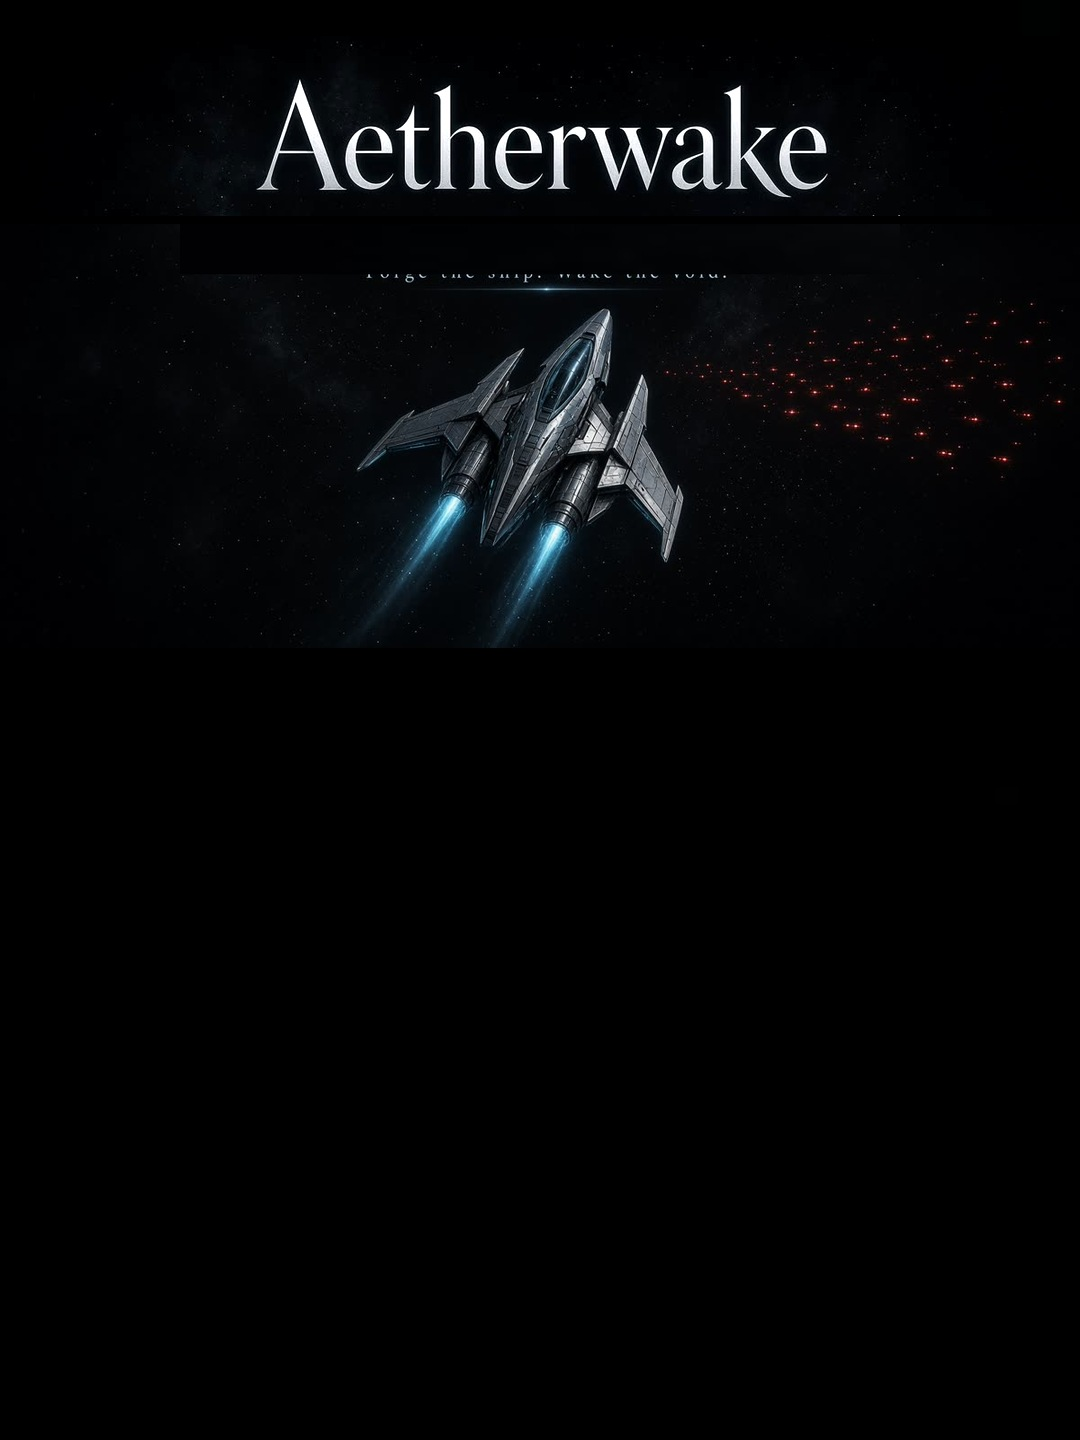
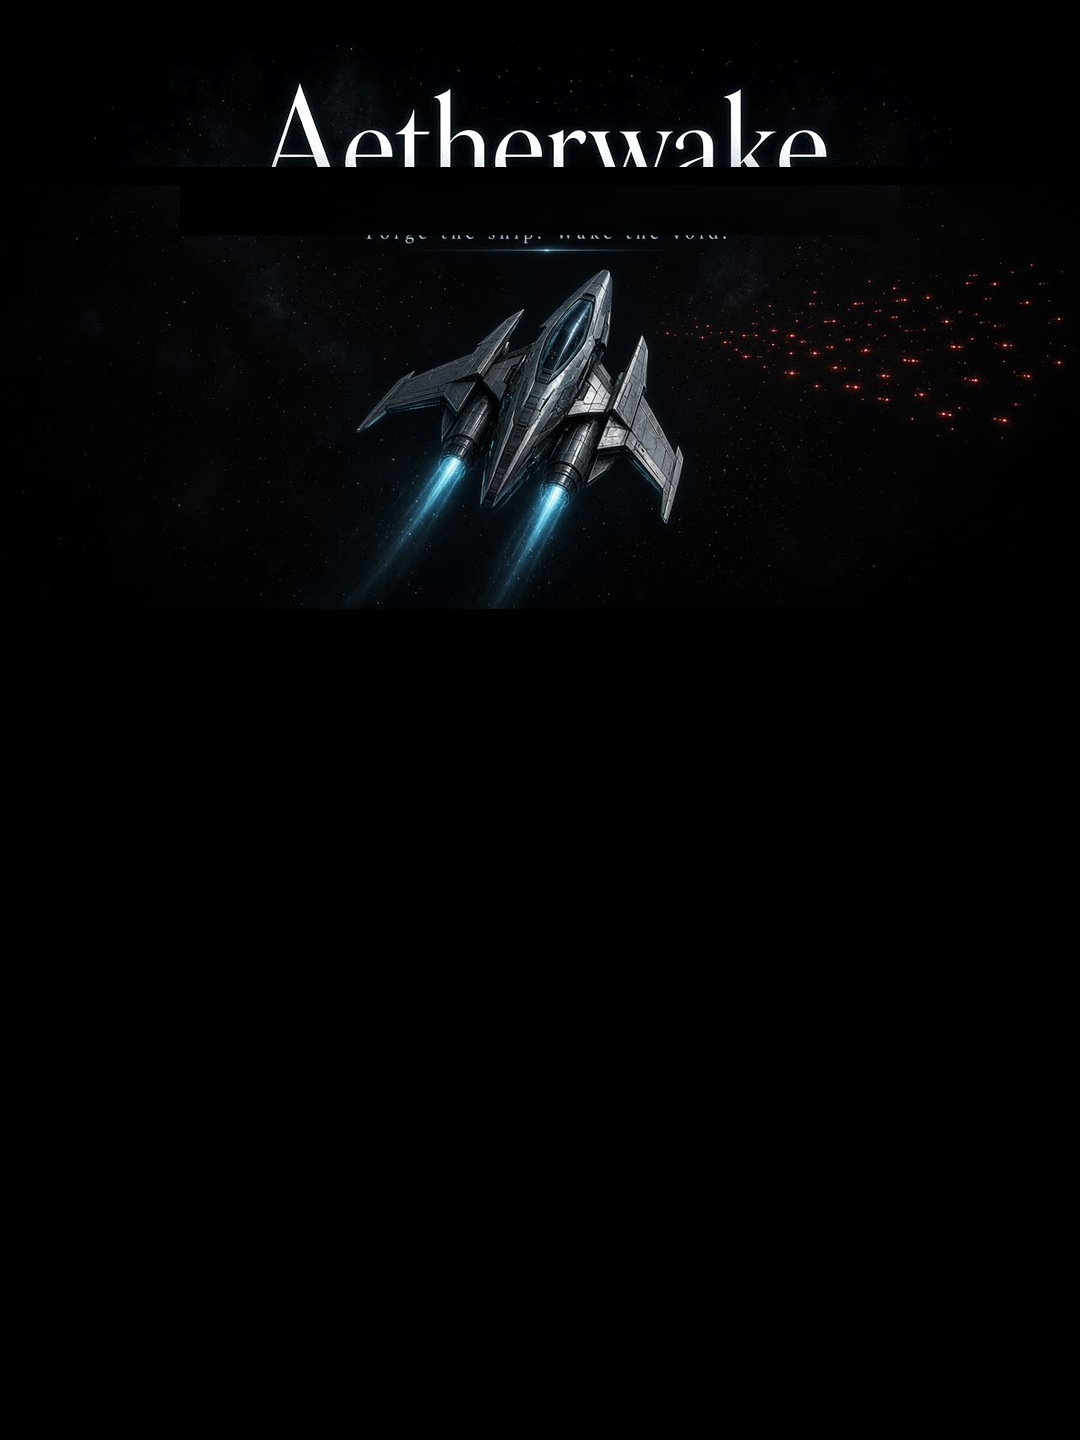
Export from Grok

Changed region(s): [[0.2444, 0.0625, 0.7639, 0.4688], [0.7333, 0.2188, 0.8861, 0.3125], [0.6722, 0.25, 0.7028, 0.2812]]

diff --git a/src/lib/fullscreen.ts b/src/lib/fullscreen.ts
@@ -30,9 +30,60 @@ export function subscribeFullscreen(fn: () => void) {
   };
 }
 
+export function nativeFullscreenAvailable() {
+  if (typeof document === "undefined") return false;
+  const el = document.documentElement as HTMLElement & {
+    requestFullscreen?: () => Promise<void>;
+    webkitRequestFullscreen?: () => void;
+  };
+  return typeof el.requestFullscreen === "function" || typeof el.webkitRequestFullscreen === "function";
+}
+
 function applyClass(on: boolean) {
   document.documentElement.classList.toggle(FS_CLASS, on);
   document.body?.classList.toggle(FS_CLASS, on);
+}
+
+function setViewportVar() {
+  if (typeof window === "undefined") return;
+  const h = window.visualViewport?.height ?? window.innerHeight;
+  document.documentElement.style.setProperty("--aw-vh", `${Math.round(h)}px`);
+}
+
+function onViewportResize() {
+  if (wantFs) setViewportVar();
+}
+
+function bindViewport(on: boolean) {
+  const vv = typeof window !== "undefined" ? window.visualViewport : null;
+  if (!vv) return;
+  vv.removeEventListener("resize", onViewportResize);
+  vv.removeEventListener("scroll", onViewportResize);
+  if (on) {
+    vv.addEventListener("resize", onViewportResize);
+    vv.addEventListener("scroll", onViewportResize);
+    setViewportVar();
+  } else {
+    document.documentElement.style.removeProperty("--aw-vh");
+  }
+}
+
+function hideMobileChrome() {
+  if (typeof window === "undefined") return;
+  setViewportVar();
+  try {
+    const body = document.body;
+    const prev = body.style.height;
+    body.style.height = `${window.innerHeight + 120}px`;
+    window.scrollTo(0, 120);
+    requestAnimationFrame(() => {
+      window.scrollTo(0, 0);
+      body.style.height = prev;
+      setViewportVar();
+    });
+  } catch {
+    /* ignore */
+  }
 }
 
 function markExited() {
@@ -40,31 +91,56 @@ function markExited() {
   nativeOn = false;
   exitedAt = typeof performance !== "undefined" ? performance.now() : 0;
   applyClass(false);
+  bindViewport(false);
   notify();
+}
+
+type FsEl = HTMLElement & {
+  requestFullscreen?: (opts?: FullscreenOptions) => Promise<void>;
+  webkitRequestFullscreen?: () => void;
+  webkitRequestFullScreen?: () => void;
+};
+
+async function requestNativeFs() {
+  const nodes: (Element | null)[] = [
+    document.querySelector("[data-game-root]"),
+    document.documentElement,
+    document.body,
+  ];
+  for (const node of nodes) {
+    if (!node) continue;
+    const el = node as FsEl;
+    if (typeof el.requestFullscreen === "function") {
+      try {
+        await el.requestFullscreen({ navigationUI: "hide" });
+        return true;
+      } catch {
+        try {
+          await el.requestFullscreen();
+          return true;
+        } catch {
+          /* try next */
+        }
+      }
+    }
+    try {
+      el.webkitRequestFullscreen?.();
+      el.webkitRequestFullScreen?.();
+      if (hasNativeFs()) return true;
+    } catch {
+      /* try next */
+    }
+  }
+  return false;
 }
 
 export function enterFullscreen() {
   wantFs = true;
   applyClass(true);
+  bindViewport(true);
+  hideMobileChrome();
   notify();
-
-  const el = document.documentElement as HTMLElement & {
-    webkitRequestFullscreen?: () => void;
-    webkitRequestFullScreen?: () => void;
-  };
-  try {
-    if (typeof el.requestFullscreen === "function") {
-      const p = el.requestFullscreen({ navigationUI: "hide" });
-      void p.catch(() => {
-        /* iframe / iOS: keep CSS fallback */
-      });
-      return;
-    }
-    el.webkitRequestFullscreen?.();
-    el.webkitRequestFullScreen?.();
-  } catch {
-    /* keep CSS fallback */
-  }
+  void requestNativeFs();
 }
 
 export function exitFullscreen() {
@@ -88,15 +164,16 @@ if (typeof document !== "undefined") {
       nativeSince = typeof performance !== "undefined" ? performance.now() : 0;
       wantFs = true;
       applyClass(true);
+      bindViewport(true);
       notify();
       return;
     }
-    // Native FS is off. A bounce/reject must not undo CSS fill.
     if (nativeOn) {
       nativeOn = false;
       const dur = typeof performance !== "undefined" ? performance.now() - nativeSince : 9999;
       if (wantFs && dur < 400) {
         applyClass(true);
+        bindViewport(true);
         notify();
         return;
       }

diff --git a/src/components/fullscreen-ui.tsx b/src/components/fullscreen-ui.tsx
@@ -1,7 +1,13 @@
-import { useEffect, useRef, useState } from "react";
+import { useEffect, useState } from "react";
 import { Maximize2, Minimize2 } from "lucide-react";
+import { Button } from "@/components/ui/button";
 import { cn } from "@/lib/utils";
-import { enterFullscreen, exitFullscreen, isFullscreen, subscribeFullscreen } from "@/lib/fullscreen";
+import {
+  enterFullscreen,
+  exitFullscreen,
+  isFullscreen,
+  subscribeFullscreen,
+} from "@/lib/fullscreen";
 
 function useFullscreenFlag() {
   const [on, setOn] = useState(() => (typeof document === "undefined" ? false : isFullscreen()));
@@ -9,45 +15,81 @@ function useFullscreenFlag() {
   return on;
 }
 
-function toggleFullscreen() {
-  if (isFullscreen()) exitFullscreen();
-  else enterFullscreen();
+function isIosPhone() {
+  if (typeof navigator === "undefined") return false;
+  return /iphone|ipod/i.test(navigator.userAgent);
+}
+
+function isStandalone() {
+  if (typeof window === "undefined") return false;
+  return (
+    window.matchMedia("(display-mode: standalone)").matches ||
+    window.matchMedia("(display-mode: fullscreen)").matches ||
+    Boolean((window.navigator as Navigator & { standalone?: boolean }).standalone)
+  );
 }
 
 export function FullscreenButtons({ labeled = false, className }: { labeled?: boolean; className?: string }) {
   const on = useFullscreenFlag();
-  const last = useRef(0);
+  const [hint, setHint] = useState(false);
+
   const toggle = () => {
-    const now = typeof performance !== "undefined" ? performance.now() : Date.now();
-    if (now - last.current < 400) return;
-    last.current = now;
-    toggleFullscreen();
+    if (isFullscreen()) {
+      exitFullscreen();
+      setHint(false);
+      return;
+    }
+    enterFullscreen();
+    window.setTimeout(() => {
+      const native = !!(
+        document.fullscreenElement ||
+        (document as Document & { webkitFullscreenElement?: Element }).webkitFullscreenElement
+      );
+      if (!native && isIosPhone() && !isStandalone()) {
+        setHint(true);
+      }
+    }, 280);
   };
+
+  const label = on ? "Exit fullscreen" : "Full screen";
+
+  if (labeled) {
+    return (
+      <div className="w-full">
+        <Button
+          type="button"
+          variant="ghost"
+          size="lg"
+          className={cn("w-full touch-manipulation", on && "border-fg/50 bg-elevated", className)}
+          aria-label={label}
+          aria-pressed={on}
+          onClick={toggle}
+        >
+          {on ? <Minimize2 className="size-4" /> : <Maximize2 className="size-4" />}
+          {label}
+        </Button>
+        {hint ? (
+          <p className="mt-2 text-center text-sm leading-snug text-muted">
+            iPhone Safari cannot hide its toolbar. Tap Add to Home Screen, then open Aetherwake from your home screen for true full screen.
+          </p>
+        ) : null}
+      </div>
+    );
+  }
+
   return (
     <button
       type="button"
-      aria-label={on ? "Exit full screen" : "Full screen"}
+      aria-label={label}
       aria-pressed={on}
       className={cn(
-        "pointer-events-auto place-items-center rounded-[12px] border border-border bg-surface/80 text-fg",
-        labeled
-          ? "inline-flex h-12 w-full items-center justify-center gap-2 px-3 font-display text-base sm:h-11 sm:text-sm"
-          : "grid size-11",
+        "pointer-events-auto grid size-11 place-items-center rounded-[12px] border border-border bg-surface/80 text-fg touch-manipulation",
         on && "border-fg/50 bg-elevated",
         className,
       )}
-      onPointerDown={(e) => {
-        e.stopPropagation();
-        toggle();
-      }}
-      onClick={(e) => {
-        e.preventDefault();
-        e.stopPropagation();
-        toggle();
-      }}
+      onClick={toggle}
     >
       {on ? <Minimize2 className="size-4" /> : <Maximize2 className="size-4" />}
-      {labeled ? <span>{on ? "Exit fullscreen" : "Full screen"}</span> : null}
     </button>
   );
 }

diff --git a/src/components/game-overlays.tsx b/src/components/game-overlays.tsx
@@ -93,6 +93,9 @@ export function TitleScreen() {
       <div className="pointer-events-auto relative z-10 mt-auto mx-auto w-full max-w-[440px] shrink-0 px-4 pb-[max(1.25rem,env(safe-area-inset-bottom))] pt-2 sm:pb-6">
         <div className="rounded-xl border border-border bg-surface/90 p-4 text-fg shadow-[0_24px_80px_rgba(0,0,0,0.5)] backdrop-blur-sm">
           <div className="flex flex-col gap-3">
+            <p className="px-1 text-center font-display text-[clamp(1.15rem,5.2vw,1.55rem)] font-semibold leading-snug tracking-[0.08em] text-fg sm:hidden">
+              Forge the ship. Wake the void.
+            </p>
             <Button size="lg" className="w-full" disabled={!api} onClick={() => api?.start()}>
               <Play className="size-4" />
               Engage

diff --git a/src/routes/__root.tsx b/src/routes/__root.tsx
@@ -9,7 +9,7 @@ export const Route = createRootRoute({
   head: () => ({
     meta: [
       { charSet: "utf-8" },
-      { name: "viewport", content: "width=device-width, initial-scale=1, viewport-fit=cover" },
+      { name: "viewport", content: "width=device-width, initial-scale=1, viewport-fit=cover, interactive-widget=resizes-content" },
       { title: APP_NAME },
       { name: "description", content: "Top-down space shooter with waves, power-ups, and a forge skill map." },
       { name: "theme-color", content: "#08090d" },

diff --git a/src/styles.css b/src/styles.css
@@ -60,6 +60,7 @@ html.awake-fs body,
 html.awake-fs #app {
   height: 100%;
   height: 100dvh;
+  height: var(--aw-vh, 100dvh);
   overflow: hidden;
   overscroll-behavior: none;
 }
@@ -76,7 +77,9 @@ html.awake-fs [data-game-root] {
   width: 100%;
   height: 100%;
   height: 100dvh;
+  height: var(--aw-vh, 100dvh);
   max-height: 100dvh;
+  max-height: var(--aw-vh, 100dvh);
   z-index: 9999;
   background: var(--color-bg);
 }
